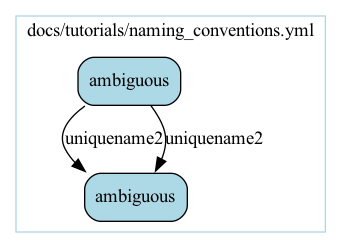
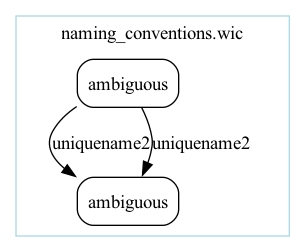
feat(drawing): unfilled boxes, black inferred edges
Boxes take the background, their outlines and labels the foreground, and
inferred edges are black. --graph_dark_theme now draws them white.

Changed region(s): [[0.1475, 0.2258, 0.8262, 0.9032], [0.0295, 0.0565, 0.9738, 0.9315]]

diff --git a/tests/core/test_graph_features.py b/tests/core/test_graph_features.py
@@ -126,12 +126,14 @@ def test_graph_inline_depth_draws_that_many_levels_of_subworkflow(depth: int, cl
 
 
 @pytest.mark.fast
-@pytest.mark.parametrize(('dark_theme', 'font_colour'), [(False, 'white'), (True, 'black')])
+@pytest.mark.parametrize(('dark_theme', 'font_colour', 'blue'),
+                         [(False, 'black', 'blue'), (True, 'white', 'lightskyblue')])
 def test_the_graph_draws_inferred_edges_in_the_font_colour_and_the_rest_in_blue(
-        dark_theme: bool, font_colour: str) -> None:
+        dark_theme: bool, font_colour: str, blue: str) -> None:
     """An edge the document wrote is blue, whether it joins two steps of one
-    document or reaches into a subworkflow; an edge the compiler inferred takes
-    the theme's font colour, which is black on a dark theme and white otherwise.
+    document or reaches into a subworkflow, and a lighter blue on a dark theme; an
+    edge the compiler inferred takes the foreground colour, which is black, or white
+    on a dark theme.
     """
     document: Yaml = {'steps': [
         {'id': 'mk_file', 'in': {'name': {'wic_inline_input': 'a'}}, 'out': [{'file': {'wic_anchor': 'f'}}]},
@@ -144,8 +146,8 @@ def test_the_graph_draws_inferred_edges_in_the_font_colour_and_the_rest_in_blue(
     colours = {(source, sink): attrs.get('color')
                for source, sink, attrs in _edges(_draw(document, dark_theme=dark_theme))}
     assert colours == {
-        ('oracle__step__1__mk_file', 'oracle__step__2__xform'): 'blue',
-        ('oracle__step__1__mk_file', 'oracle__step__3__sub.wic___sub__step__1__xform'): 'blue',
+        ('oracle__step__1__mk_file', 'oracle__step__2__xform'): blue,
+        ('oracle__step__1__mk_file', 'oracle__step__3__sub.wic___sub__step__1__xform'): blue,
         ('oracle__step__3__sub.wic___sub__step__1__xform',
          'oracle__step__3__sub.wic___sub__step__2__count'): font_colour,
     }
@@ -194,13 +196,49 @@ def test_graphviz_writes_the_graph_of_the_compiled_workflow(cli_graph: Callable[
 
 
 @pytest.mark.fast
-@pytest.mark.parametrize(('flags', 'font'), [((), 'white'), (('--graph_dark_theme',), 'black')])
-def test_graph_dark_theme_sets_the_font_of_the_drawing(
+@pytest.mark.parametrize(('flags', 'font'), [((), 'black'), (('--graph_dark_theme',), 'white')])
+def test_graph_dark_theme_sets_the_foreground_of_the_drawing(
         cli_graph: Callable[..., str], flags: tuple[str, ...], font: str) -> None:
-    """The drawing's font and its inferred edges take one colour, white, or black with `--graph_dark_theme`."""
+    """The drawing's text, its box outlines and its inferred edges take one colour: black, or white with
+    `--graph_dark_theme`. A box is not filled, so it takes the background's colour."""
     drawn = cli_graph(_TWO_STEPS, *flags)
     assert f'fontcolor={font}\n' in drawn
-    assert f'-> w__step__2__cat [color={font}]' in drawn
+    boxes = _nodes(drawn)
+    assert {(attrs['color'], attrs['fontcolor']) for attrs in boxes.values()} == {(font, font)}
+    assert not any('filled' in attrs['style'] or 'fillcolor' in attrs for attrs in boxes.values())
+    assert [attrs['color'] for _source, _sink, attrs in _edges(drawn)] == [font]
+
+
+_EXPLICIT_EDGE = """\
+steps:
+- id: touch
+  in:
+    filename: !ii empty.txt
+  out:
+  - file: !& f
+- id: cat
+  in:
+    file: !* f
+"""
+
+
+@pytest.mark.fast
+@pytest.mark.parametrize(('flags', 'blue'), [((), 'blue'), (('--graph_dark_theme',), 'lightskyblue')])
+def test_graph_dark_theme_draws_an_explicit_edge_in_a_lighter_blue(
+        cli_graph: Callable[..., str], flags: tuple[str, ...], blue: str) -> None:
+    """An edge the document wrote is `blue`, which does not read on a dark background, so
+    `--graph_dark_theme` draws it in a lighter blue."""
+    drawn = cli_graph(_EXPLICIT_EDGE, *flags)
+    assert [attrs['color'] for _source, _sink, attrs in _edges(drawn)] == [blue]
+
+
+@pytest.mark.fast
+@pytest.mark.parametrize(('flags', 'font'), [((), 'black'), (('--graph_dark_theme',), 'white')])
+def test_an_edge_label_takes_the_foreground_colour(
+        cli_graph: Callable[..., str], flags: tuple[str, ...], font: str) -> None:
+    """With `--graph_label_edges` an edge's label is written in the drawing's foreground colour."""
+    drawn = cli_graph(_TWO_STEPS, '--graph_label_edges', *flags)
+    assert [attrs['fontcolor'] for _source, _sink, attrs in _edges(drawn)] == [font]
 
 
 @pytest.mark.fast
@@ -250,10 +288,10 @@ def test_a_step_label_names_its_box_unless_the_flag_asks_for_generated_names(
 
 @pytest.mark.fast
 def test_a_step_style_is_appended_to_the_style_of_its_box(cli_graph: Callable[..., str]) -> None:
-    """A step's `wic: graphviz: style` follows `rounded, filled`; a step without one keeps that alone."""
+    """A step's `wic: graphviz: style` follows `rounded`; a step without one keeps that alone."""
     nodes = _nodes(cli_graph(_with(_TWO_STEPS, entries={'touch': {'style': 'dashed, bold'}})))
-    assert nodes['w__step__1__touch']['style'] == 'rounded, filled, dashed, bold'
-    assert nodes['w__step__2__cat']['style'] == 'rounded, filled'
+    assert nodes['w__step__1__touch']['style'] == 'rounded, dashed, bold'
+    assert nodes['w__step__2__cat']['style'] == 'rounded'
 
 
 @pytest.mark.fast
@@ -281,7 +319,7 @@ def test_two_calls_to_one_subworkflow_are_two_clusters_each_with_its_own_look(
     drawn = cli_graph(_with(calls, entries=entries), sub=_TWO_STEPS)
     first, second = _cluster(drawn, _SUB_CLUSTER), _cluster(drawn, 'cluster_w__step__3__sub.wic')
     assert (first['label'], first.get('style'), second['label'], second['style']) == ('First', None, 'Second', 'invis')
-    assert _nodes(drawn)['w__step__2__sub.wic']['style'] == 'rounded, filled'
+    assert _nodes(drawn)['w__step__2__sub.wic']['style'] == 'rounded'
 
 
 @pytest.mark.fast
@@ -292,8 +330,8 @@ def test_an_invisible_subworkflow_hides_its_cluster_and_the_box_that_calls_it(
     drawn = cli_graph(_with(_CALLS_SUB, entries={'sub.wic': call} if call else None), sub=_with(_TWO_STEPS, own))
     assert _cluster(drawn, _SUB_CLUSTER)['style'] == 'invis'
     nodes = _nodes(drawn)
-    assert nodes['w__step__2__sub.wic']['style'] == 'rounded, filled, invis'
-    assert nodes['w__step__1__touch']['style'] == 'rounded, filled'
+    assert nodes['w__step__2__sub.wic']['style'] == 'rounded, invis'
+    assert nodes['w__step__1__touch']['style'] == 'rounded'
 
 
 @pytest.mark.fast

diff --git a/src/sophios/drawing.py b/src/sophios/drawing.py
@@ -38,12 +38,22 @@ def draw(compiled: CompilationResult, bundle: SourceBundle, settings: GraphSetti
     # required for rank=same constraints to work across subgraphs/clusters.
     root.attr(newrank='True')
     root.attr(bgcolor='transparent')  # Useful for making slides
-    root.attr(fontcolor='black' if settings['graph_dark_theme'] else 'white')
+    root.attr(fontcolor=_foreground(settings))
     assert bundle.parsed.document is not None  # `compiled` was compiled from it
     document = called_document(bundle.parsed.document, None, bundle.registry)
     sidecars = _sidecars(compiled.graph, document.sidecar if document else None, bundle.registry)
     root.subgraph(_cluster(compiled.graph, sidecars, Names.of(compiled.graph), settings, name))
     return root
+
+
+def _foreground(settings: GraphSettings) -> str:
+    """The colour of text, box outlines and inferred edges: black, or white with `--graph_dark_theme`."""
+    return 'white' if settings['graph_dark_theme'] else 'black'
+
+
+def _explicit(settings: GraphSettings) -> str:
+    """The colour of an explicit edge: blue, or with `--graph_dark_theme` a lighter one, as `blue` is too dark."""
+    return 'lightskyblue' if settings['graph_dark_theme'] else 'blue'
 
 
 def _sidecars(graph: WorkflowGraph, sidecar: WicSidecar | None, registry: RegistrySnapshot) -> _Sidecars:
@@ -101,9 +111,10 @@ def _box(graph: WorkflowGraph, step: StepNode, sidecars: _Sidecars, names: Names
          settings: GraphSettings) -> dict[str, str]:
     """The attributes of `step`'s box. `--graph_label_stepname` labels it with its generated name;
     without it, a tool step's `wic: graphviz: label` wins over its id, and its `style` is appended.
-    The box of a call to a subworkflow styled `invis` is hidden with it."""
+    The box of a call to a subworkflow styled `invis` is hidden with it. A box is not filled, so it takes
+    the background's colour, and its outline and label take the foreground's."""
     label = names.step(step.id) if settings['graph_label_stepname'] else step.id.name
-    style = 'rounded, filled'
+    style = 'rounded'
     if step.run is not None and step.run.child is not None:
         called = graphviz_entry(sidecars[graph.namespace.child(step.id)])
         style += ', invis' if 'invis' in called.get('style', '') else ''
@@ -111,7 +122,8 @@ def _box(graph: WorkflowGraph, step: StepNode, sidecars: _Sidecars, names: Names
         look = graphviz_entry(_entry(graph, sidecars[graph.namespace], step))
         label = label if settings['graph_label_stepname'] else look.get('label', label)
         style += f", {look['style']}" if 'style' in look else ''
-    return {'label': label, 'shape': 'box', 'style': style, 'fillcolor': 'lightblue'}
+    return {'label': label, 'shape': 'box', 'style': style,
+            'color': _foreground(settings), 'fontcolor': _foreground(settings)}
 
 
 def _edges(cluster: graphviz.Digraph, graph: WorkflowGraph, names: Names, settings: GraphSettings) -> None:
@@ -120,14 +132,15 @@ def _edges(cluster: graphviz.Digraph, graph: WorkflowGraph, names: Names, settin
     for edge in graph.edges:
         source = names.qualified(edge.source.step)
         sink = names.qualified(edge.sink.step)
-        # Explicit edges are blue; an inferred one takes the theme's font
+        # Explicit edges are blue; an inferred one takes the foreground
         # colour, as docs/drawing.md says, so a reader can tell
         # what the document said from what the compiler decided.
-        attrs = {'color': 'blue'}
+        attrs = {'color': _explicit(settings)}
         if edge.origin is EdgeOrigin.INFERRED:
-            attrs['color'] = 'black' if settings['graph_dark_theme'] else 'white'
+            attrs['color'] = _foreground(settings)
         if settings['graph_label_edges']:
             attrs['label'] = names.port(edge.source.port)
+            attrs['fontcolor'] = _foreground(settings)
         elif (source, sink) in seen:
             continue
         seen.add((source, sink))

diff --git a/src/sophios/cli.py b/src/sophios/cli.py
@@ -165,7 +165,7 @@ parser.add_argument('--graph_show_outputs', default=False, action="store_true",
 parser.add_argument('--graph_inline_depth', type=int, required=False, default=sys.maxsize,
                     help='Controls the depth of subgraphs which are displayed.')
 parser.add_argument('--graph_dark_theme', default=False, action="store_true",
-                    help='Changees the color of the fonts and edges from white to black.')
+                    help='Draw text, box outlines and inferred edges in white, for a dark background.')
 parser.add_argument('--custom_net', type=str, required=False,
                     help='Passes --custom-net flag to cwltool.')
 parser.add_argument('--passthrough_flags', type=str, default='no', choices=['yes', 'no'], required=False,

diff --git a/docs/drawing.md b/docs/drawing.md
@@ -35,10 +35,13 @@ The two drawings are `docs/tutorials/multistep1.wic`, whose every edge is
 written with `!&` and `!*`, and `multistep2.wic`, the same four steps with
 every edge left to inference. Each step is a box labelled with its id, and
 each workflow a cluster labelled with its file name. An explicit edge is
-blue; an inferred edge takes the drawing's foreground colour, white on the
-transparent background, or black with `--graph_dark_theme`, so that a reader
-can tell what the document said from what the compiler decided. The graphs are
-the same, which is what inference is for.
+blue; an inferred edge is black, so that you can tell what the document said
+from what the compiler decided. The graphs are the same, which is what
+inference is for.
+
+The drawing has a transparent background and boxes with no fill, so it
+suits a light page or slide as it is. For a dark one, `--graph_dark_theme`
+draws the text, the box outlines and the inferred edges in white.
 
 One edge is drawn per pair of steps, however many ports connect them.
 
@@ -49,7 +52,7 @@ One edge is drawn per pair of steps, however many ports connect them.
 | `--graph_label_edges` | one edge per port, labelled with the name of the output it carries |
 | `--graph_label_stepname` | label each box with its generated step name (`greeting__step__1__touch`) instead of its id or its `wic: graphviz: label` |
 | `--graph_inline_depth N` | draw the steps of subworkflows nested up to depth `N`; a deeper call is one box |
-| `--graph_dark_theme` | black text and inferred edges, for a light background |
+| `--graph_dark_theme` | white text, box outlines and inferred edges, for a dark background |
 
 ## Labels and layout from the `.wic` file
 
@@ -83,7 +86,7 @@ steps:
 - `label` on a workflow, or on the `wic: steps:` entry that calls it, titles
   the workflow's cluster. A subworkflow without one is titled with the id it
   is called by.
-- `style` on a step is appended to the box's own `rounded, filled`; on a
+- `style` on a step is appended to the box's own `rounded`; on a
   workflow it styles the cluster, and `invis` hides the cluster and the box of
   the step that calls it.
 - `ranksame` lists steps of this document, as `(index, name)`, to draw on one

diff --git a/CHANGELOG.md b/CHANGELOG.md
@@ -161,6 +161,15 @@ Codes in parentheses are the codes Sophios prints with each diagnostic.
   stays nested and is named on stderr.
 - The `cwl_subinterpreter` command is gone; `--run_local` runs a declared
   real-time analysis itself.
+- `--graphviz` draws each step as a box with no fill, its outline and label
+  in black, and an inferred edge in black; an explicit edge is still blue.
+  The boxes used to be filled light blue and the inferred edges white, which
+  vanished on a white page. `--graph_dark_theme` now draws the text, the box
+  outlines and the inferred edges in white, for a dark background; it used to
+  turn the text and the inferred edges black. Drop the flag where you passed
+  it to get black, and pass it where you relied on white. With the flag an
+  explicit edge is a lighter blue (`lightskyblue`), which reads on a dark
+  background where `blue` does not.
 
 ### Python API and embedding
 

diff --git a/docs/cli-reference.md b/docs/cli-reference.md
@@ -84,7 +84,7 @@ The four rewriting flags (`--cwl_inline_subworkflows`, `--cwl_inline_runtag`,
 | `--graph_label_edges` | off | one edge per port, labelled with the output it carries, instead of one per pair of steps |
 | `--graph_label_stepname` | off | label each box with its generated step name instead of its id or its `wic: graphviz: label` |
 | `--graph_inline_depth N` | unlimited | draw the steps of subworkflows nested up to depth `N`; a deeper call is one box |
-| `--graph_dark_theme` | off | black text and inferred edges, for a light background |
+| `--graph_dark_theme` | off | white text, box outlines and inferred edges, for a dark background, and explicit edges in a lighter blue; without it they are black and explicit edges are `blue` |
 
 ## Output
 
